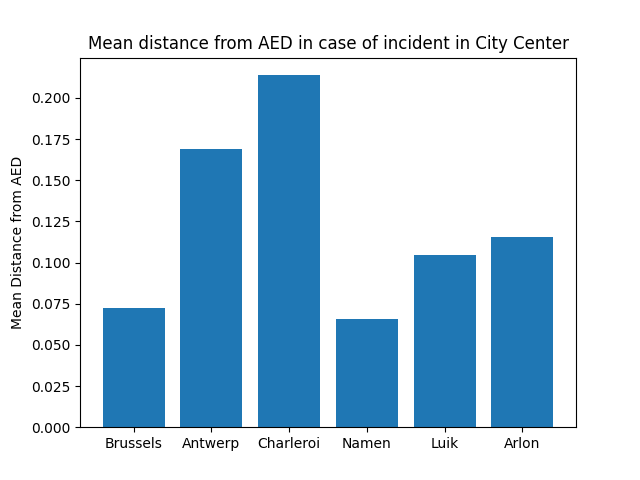
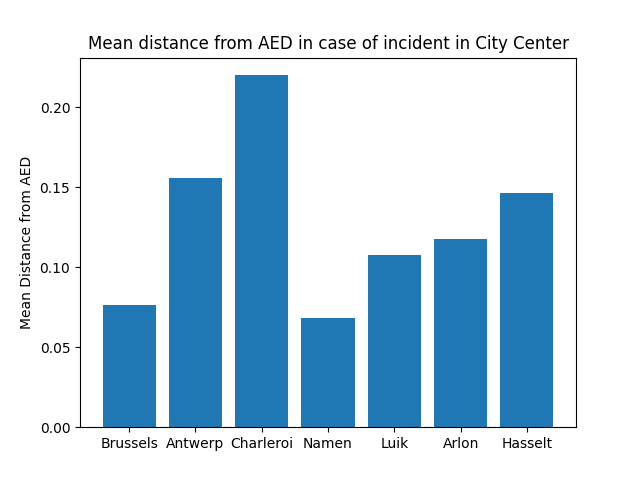
add hasselt to city centers

diff --git a/fort.py b/fort.py
@@ -19,6 +19,7 @@ centers = {
     "Namen": [50.466667, 4.866667],
     "Luik": [50.639722, 5.570556],
     "Arlon": [49.683333, 5.816667],
+    "Hasselt":[50.93, 5.3375]
 }
 
 for city_name, city_center in centers.items():
@@ -49,7 +50,7 @@ def compute_mean_aed_distance(center, radius, f_intv):
         return 0
 
 
-"""
+
 for city_name, city_center in centers.items():
     radiuses = np.linspace(0.125,10,20)
     mean_distances = np.zeros(radiuses.shape)
@@ -123,3 +124,4 @@ fig.write_html("mapmap.html")
 # plt.show()
 
 # print(intv["min_distance_to_aed"].mean())
+"""
